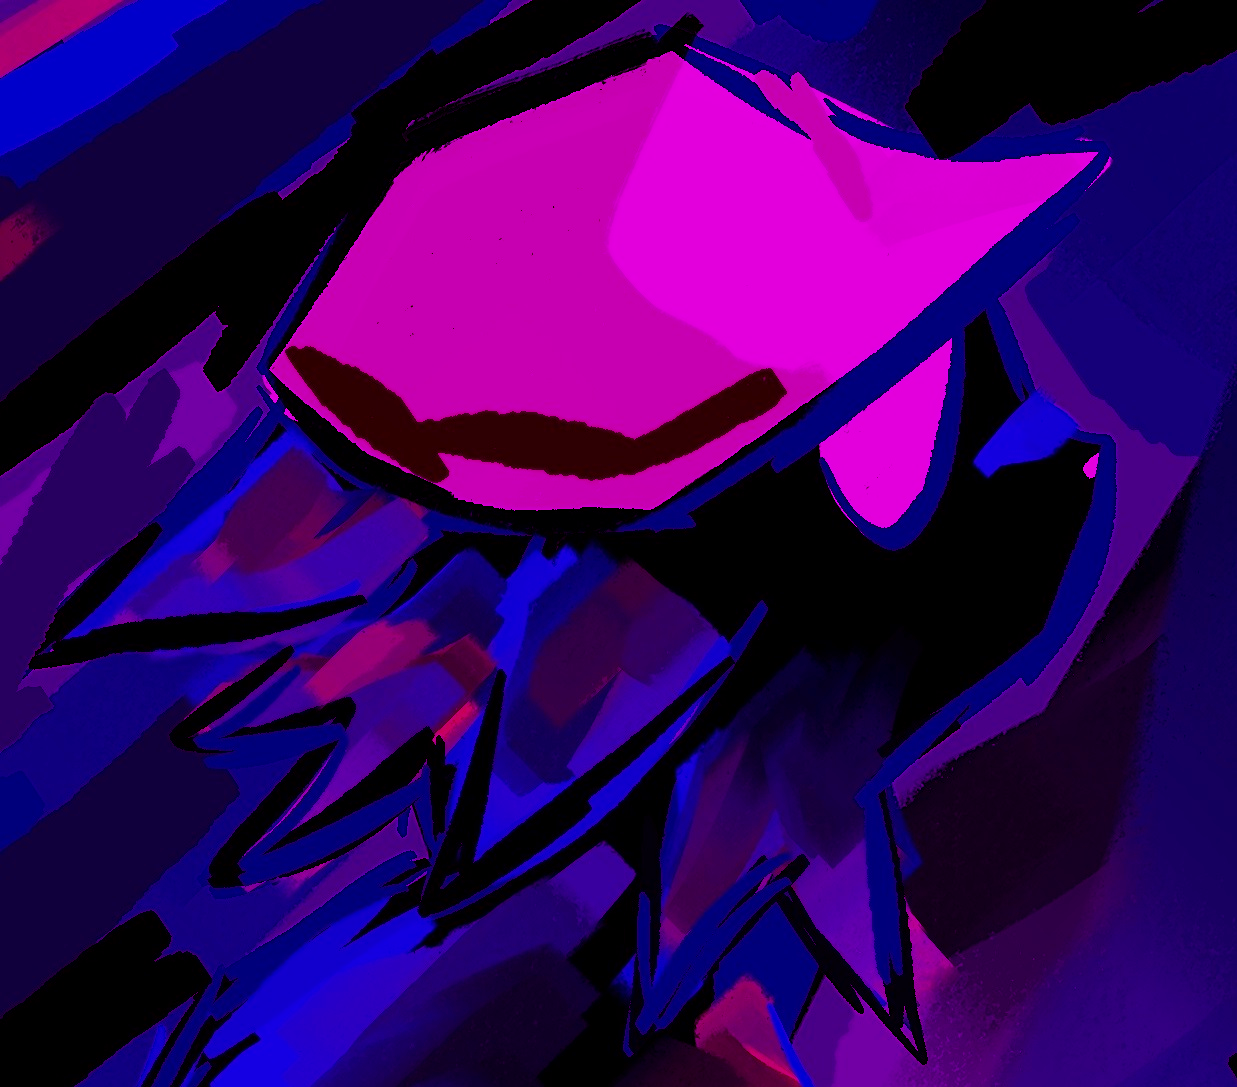
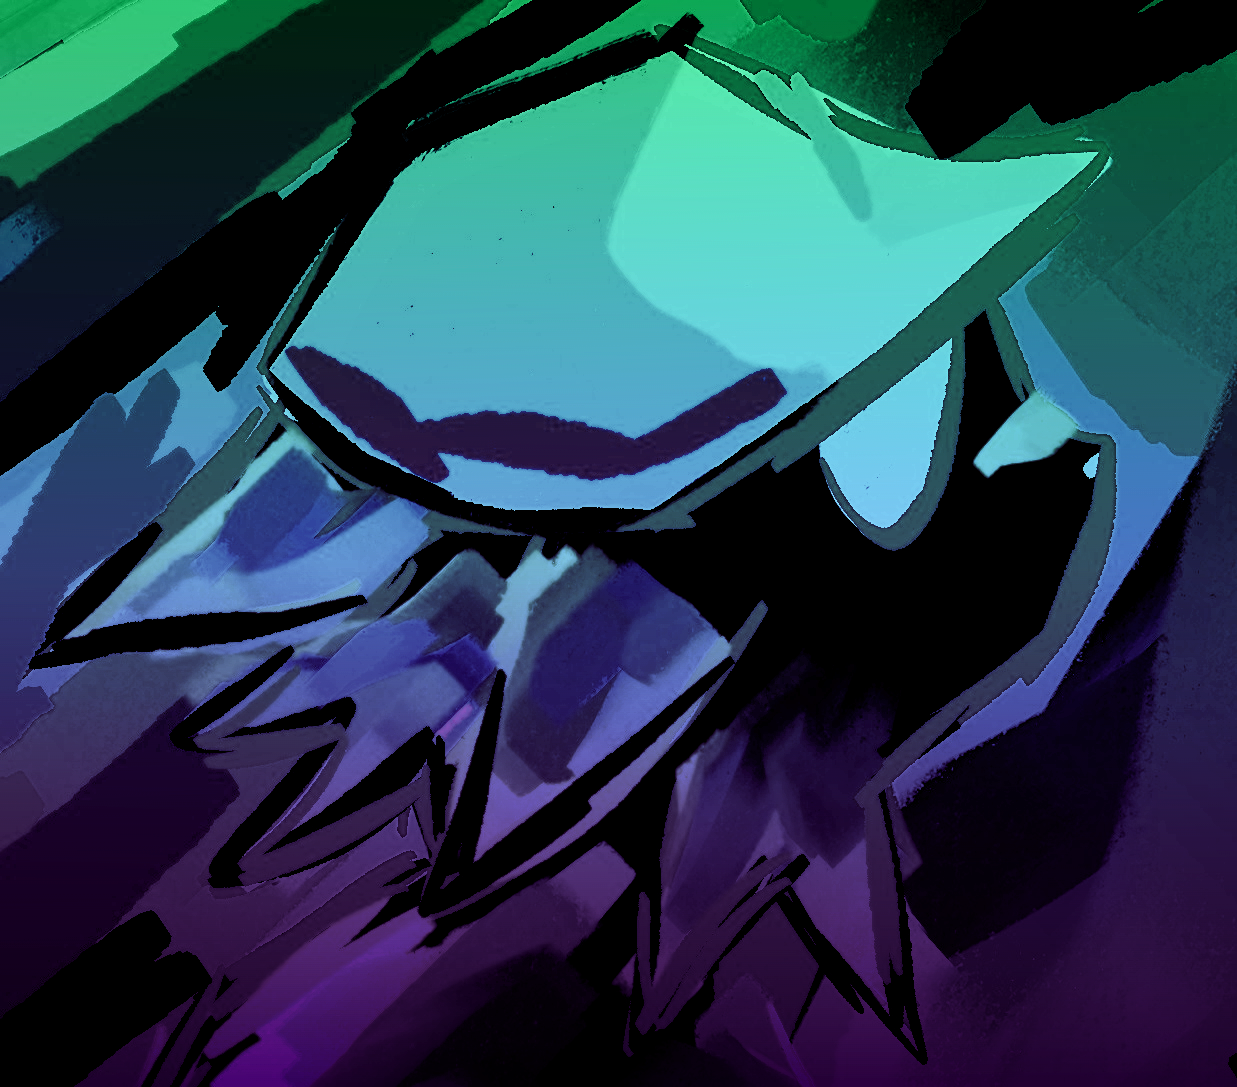
nullscape patch 5.1

diff --git a/style.css b/style.css
@@ -2,46 +2,36 @@
    CSS-ПЕРЕМЕННЫЕ – НОВАЯ ЦВЕТОВАЯ СХЕМА (НА ОСНОВЕ ТВОЕЙ АВАТАРКИ)
    ================================================================ */
 :root {
-    /* Основной фон – градиент по всем 13 цветам (плавный переход) */
+    /* Основной фон – градиент по новой палитре (зеленый -> циан -> синий -> фиолетовый) */
     --bg-gradient: linear-gradient(
         145deg,
-        rgb(227, 0, 220) 0%,
-        rgb(200, 0, 117) 10%,
-        rgb(46, 0, 0) 20%,
-        rgb(66, 0, 84) 30%,
-        rgb(151, 0, 117) 40%,
-        rgb(117, 0, 99) 50%,
-        rgb(0, 0, 126) 60%,
-        rgb(19, 0, 214) 70%,
-        rgb(24, 0, 70) 80%,
-        rgb(43, 0, 194) 85%,
-        rgb(16, 0, 60) 90%,
-        rgb(39, 0, 96) 95%,
-        rgb(193, 0, 100) 100%
+        rgb(0, 200, 100) 0%,
+        rgb(50, 220, 210) 20%,
+        rgb(30, 150, 140) 40%,
+        rgb(60, 100, 220) 60%,
+        rgb(120, 60, 180) 80%,
+        rgb(20, 10, 40) 100%
     );
 
-    /* Панель – полупрозрачный фон с лёгким оттенком */
-    --panel-bg: rgba(0, 0, 0, 0.7);
-    --panel-border: rgba(227, 0, 220, 0.5);
+    /* Панель – темный полупрозрачный фон */
+    --panel-bg: rgba(10, 20, 30, 0.75);
+    --panel-border: rgba(50, 220, 210, 0.5); /* Бирюзовая рамка */
     --panel-shadow: 0 15px 30px rgba(0, 0, 0, 0.8);
 
     /* Аватар */
-    --avatar-border: rgb(227, 0, 220);
-    --avatar-shadow: 0 0 30px rgba(227, 0, 220, 0.5), 0 0 60px rgba(200, 0, 117, 0.3);
+    --avatar-border: rgb(50, 220, 210);
+    --avatar-shadow: 0 0 30px rgba(50, 220, 210, 0.5), 0 0 60px rgba(120, 60, 180, 0.3);
 
     /* Текст */
     --text-primary: #fff;
-    --text-secondary: #d4b0ff;
+    --text-secondary: #a0f0e0; /* Светло-бирюзовый */
 
     /* Переключатель языков */
     --lang-bg: rgba(255, 255, 255, 0.1);
-    --lang-slider-bg: rgba(227, 0, 220, 0.3);
-    --lang-slider-shadow: 0 0 20px rgba(227, 0, 220, 0.3);
+    --lang-slider-bg: rgba(50, 220, 210, 0.3);
+    --lang-slider-shadow: 0 0 20px rgba(50, 220, 210, 0.3);
     --lang-btn-color: #ccc;
-    --lang-btn-active-color: #e300dc;
-
-    /* Плитки (НЕ ТРОГАЕМ – оставляем старые цвета) */
-    /* Они заданы ниже в секции .link-tile */
+    --lang-btn-active-color: #32dcd2;
 
     /* Кнопки внутри плиток – адаптируем под новую палитру */
     --btn-bg: rgba(255, 255, 255, 0.1);
@@ -49,8 +39,8 @@
 
     /* Модальное окно */
     --modal-bg: rgba(0, 0, 0, 0.85);
-    --modal-card-bg: rgba(20, 0, 40, 0.95);
-    --modal-card-border: rgba(227, 0, 220, 0.4);
+    --modal-card-bg: rgba(15, 25, 35, 0.95);
+    --modal-card-border: rgba(50, 220, 210, 0.4);
 
     --transition-speed: 0.3s;
 }
@@ -173,9 +163,9 @@ body {
 }
 
 @keyframes pulseGlow {
-    0% { box-shadow: 0 0 20px rgba(227, 0, 220, 0.4), 0 0 40px rgba(200, 0, 117, 0.2); }
-    50% { box-shadow: 0 0 40px rgba(227, 0, 220, 0.8), 0 0 80px rgba(43, 0, 194, 0.4); }
-    100% { box-shadow: 0 0 20px rgba(227, 0, 220, 0.4), 0 0 40px rgba(200, 0, 117, 0.2); }
+    0% { box-shadow: 0 0 20px rgba(50, 220, 210, 0.4), 0 0 40px rgba(120, 60, 180, 0.2); }
+    50% { box-shadow: 0 0 40px rgba(50, 220, 210, 0.8), 0 0 80px rgba(120, 60, 180, 0.4); }
+    100% { box-shadow: 0 0 20px rgba(50, 220, 210, 0.4), 0 0 40px rgba(120, 60, 180, 0.2); }
 }
 
 .avatar img {
@@ -191,7 +181,7 @@ body {
     margin-bottom: 8px;
     color: var(--text-primary);
     letter-spacing: 1px;
-    text-shadow: 0 0 20px rgba(227, 0, 220, 0.3);
+    text-shadow: 0 0 20px rgba(50, 220, 210, 0.3);
 }
 .left-panel .description {
     font-size: 0.9rem;
@@ -320,7 +310,7 @@ body {
 .link-tile:hover {
     transform: translateY(-5px);
     box-shadow: 0 12px 30px rgba(0, 0, 0, 0.5);
-    border-color: rgba(255, 255, 255, 0.35);
+    border-color: rgba(50, 220, 210, 0.6); /* Бирюзовая рамка */
     background: rgba(255, 255, 255, 0.12);
     backdrop-filter: blur(12px);
 }

diff --git a/script.js b/script.js
@@ -3,19 +3,19 @@
 // ===============================================================
 
 const COLORS_SHADER = [
-    [227, 0, 220],
-    [200, 0, 117],
-    [46, 0, 0],
-    [66, 0, 84],
-    [151, 0, 117],
-    [117, 0, 99],
-    [0, 0, 126],
-    [19, 0, 214],
-    [24, 0, 70],
-    [43, 0, 194],
-    [16, 0, 60],
-    [39, 0, 96],
-    [193, 0, 100]
+    [0, 200, 100],     // Яркий зеленый (верх)
+    [50, 220, 210],    // Яркий бирюзовый (центр)
+    [30, 150, 140],    // Темный бирюзовый
+    [60, 100, 220],    // Королевский синий (слева)
+    [120, 60, 180],    // Фиолетовый (справа)
+    [10, 40, 20],      // Глубокий зеленый (тени)
+    [20, 30, 80],      // Глубокий синий
+    [40, 10, 60],      // Глубокий фиолетовый
+    [150, 240, 240],   // Бледный циан (свет)
+    [0, 0, 0],         // Черный (контуры)
+    [0, 150, 50],      // Средний зеленый
+    [80, 40, 120],     // Средний фиолетовый
+    [80, 120, 250]     // Светло-синий
 ];
 
 const CONFIG = {
